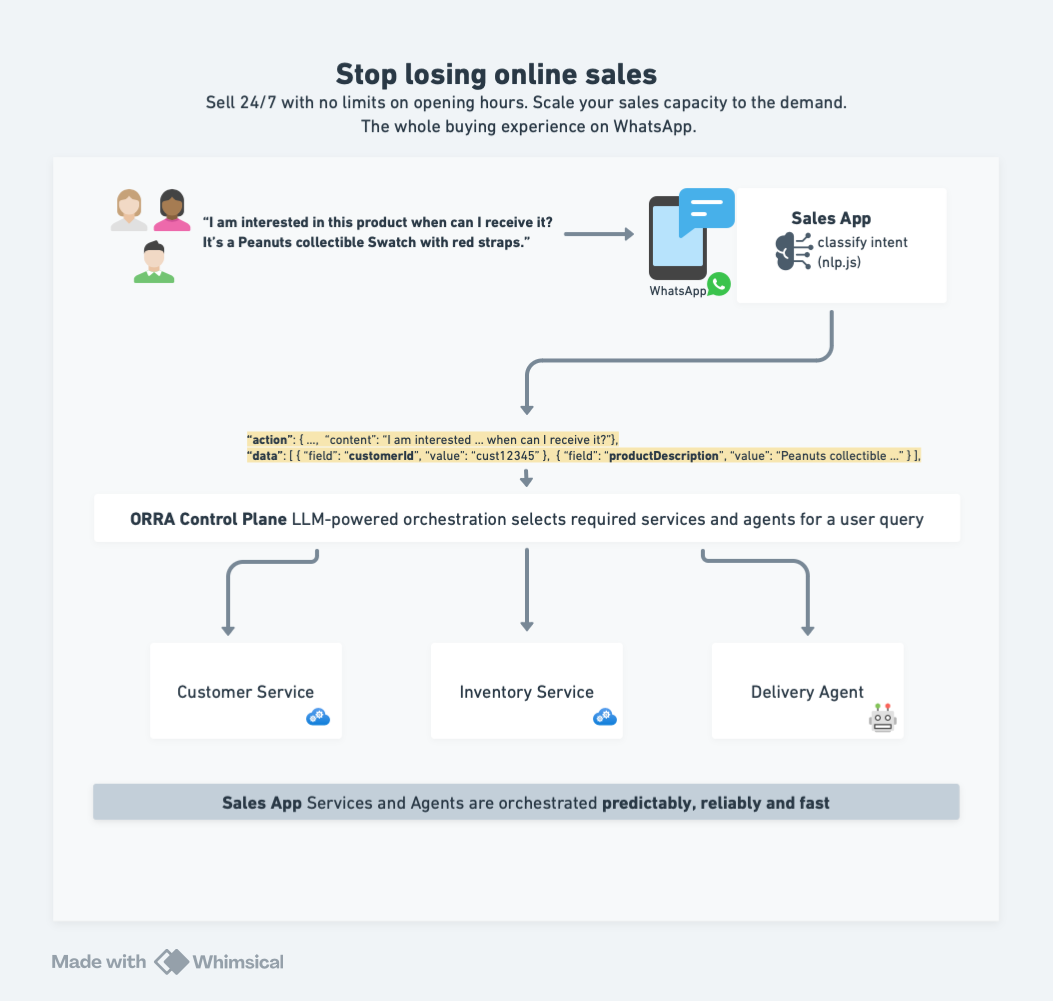
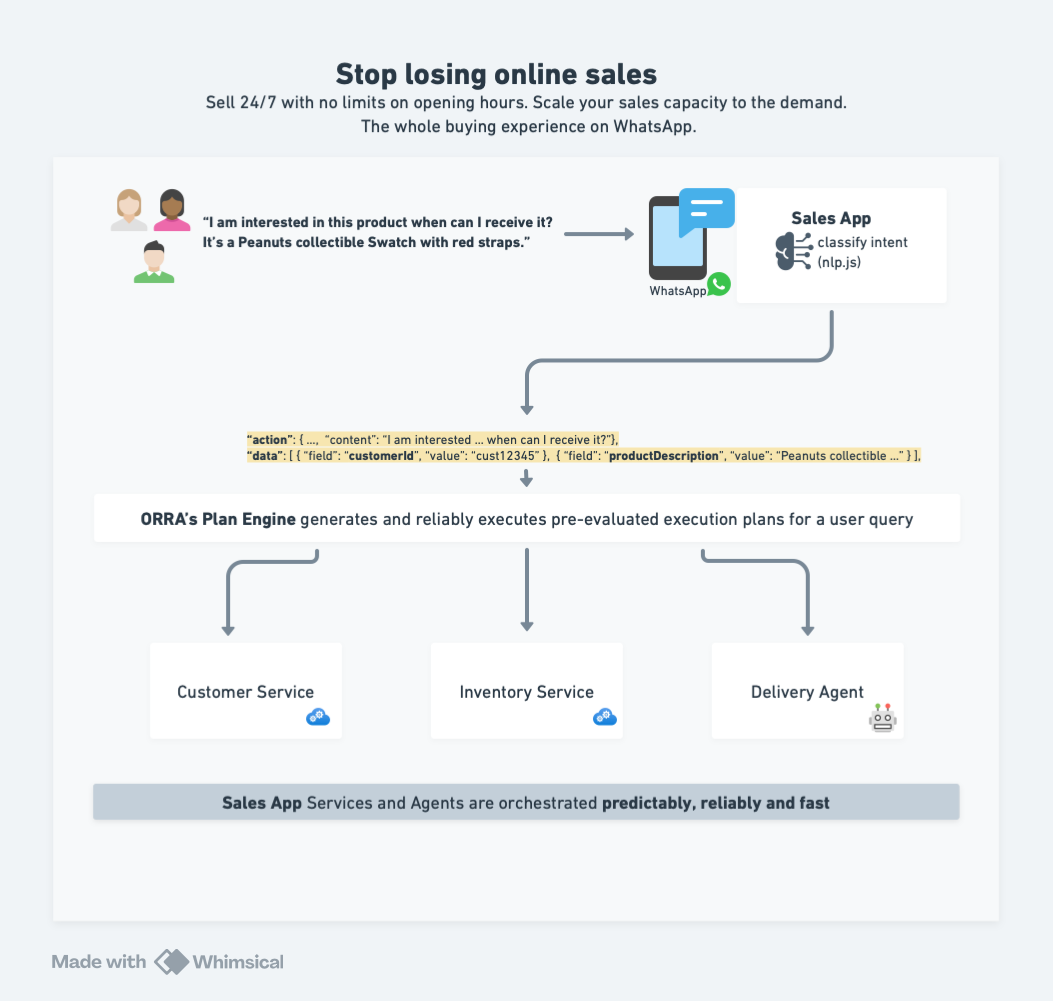
Ecommerce example and CLI binary link updates. (#186)
* Renamed inventory svc to inventory mgr.
* Updated ecommerce example README towards Plan Engine.
* Updated CLI binaries to next 0.2.2 release.

Changed region(s): [[0.1216, 0.4955, 0.8813, 0.5265]]

diff --git a/examples/ecommerce-agent-app/README.md b/examples/ecommerce-agent-app/README.md
@@ -1,6 +1,6 @@
 # AI E-commerce Assistant Example
 
-This example demonstrates how to build an AI-powered e-commerce assistant using Orra for reliable multi-agent orchestration.
+This example demonstrates how to build an LLM powered e-commerce assistant using Orra for reliable multi-agent orchestration.
 
 It uses a chat UI to simulate a WhatsApp sales experience.
 
@@ -12,7 +12,7 @@ It uses a chat UI to simulate a WhatsApp sales experience.
 - 🏪 Real-time product availability checks and holds
 - 👤 Customer profile integration
 - 📱 Real-time chat UI (simulating WhatsApp)
-- ⚡  Parallel service orchestration
+- ⚡  Parallel agent, tool as service and service task coordination
 - 🔄 Real-time status updates
 - 🛡 Error handling and recovery
 - ↩ Canceling product holds when an unrecoverable error occurs
@@ -21,29 +21,16 @@ It uses a chat UI to simulate a WhatsApp sales experience.
 
 - [Docker](https://docs.docker.com/get-docker/) and [Docker Compose](https://docs.docker.com/compose/install/)
 - [Mistral API key](https://mistral.ai/api/) for the Delivery Agent
-- [OpenAI API key](https://platform.openai.com/api-keys) for Orra's control plane
+- [OpenAI API key](https://platform.openai.com/api-keys) for Orra's Plan Engine `PLAN_CACHE_OPENAI_API_KEY`
+- [OpenAI API key](https://platform.openai.com/api-keys) or [Groq API key](https://console.groq.com/docs/quickstart) for Orra's Plan Engine reasoning models config
+
 
 ## Setup
 
 1. First, setup Orra by following the [Installation instructions](../../README.md#installation):
-```bash
-# Clone Orra
-git clone https://github.com/ezodude/orra
-cd orra/controlplane
-
-# Set your OpenAI API key
-echo "OPENAI_API_KEY=your-key-here" > .env
-
-# Start the control plane
-docker compose up
-```
 
 2. Setup your Orra project:
 ```bash
-# Install Orra CLI 
-curl -L https://github.com/ezodude/orra/releases/download/v0.2.1/orra-darwin-arm64 -o /usr/local/bin/orra
-chmod +x /usr/local/bin/orra
-
 # Create project and configure a webhook
 orra projects add my-ai-app
 orra webhooks add http://host.docker.internal:3000/api/webhook
@@ -60,7 +47,7 @@ cd ../customer-svc
 # Create .env file with your keys for
 echo "ORRA_API_KEY=key-from-step-2" > .env
 
-cd ../inventory-svc
+cd ../inventory-mgr
 # Create .env file with your keys for
 echo "ORRA_API_KEY=key-from-step-2" > .env
 
@@ -83,7 +70,7 @@ cd customer-svc
 docker compose up
 
 # Start Inventory Service
-cd inventory-svc
+cd inventory-mgr
 docker compose up
 
 # Start Delivery Agent
@@ -174,7 +161,7 @@ The example consists of:
 - **Customer Service**: Handles customer data
 - **Inventory Service**: Manages product availability
 - **Delivery Agent**: Uses Mistral AI for delivery estimations
-- **Orra Control Plane**: Orchestrates everything reliably
+- **Orra's Plane Engine**: Intelligently coordinates everything reliably
 
 ## Learn More
 

diff --git a/README.md b/README.md
@@ -82,11 +82,11 @@ Download the latest CLI binary for your platform from our [releases page](https:
 
 ```shell
 # macOS
-curl -L https://github.com/orra-dev/orra/releases/download/v0.2.1/orra-darwin-arm64 -o /usr/local/bin/orra
+curl -L https://github.com/orra-dev/orra/releases/download/v0.2.2/orra-darwin-arm64 -o /usr/local/bin/orra
 chmod +x /usr/local/bin/orra
 
 # Linux
-curl -L https://github.com/ezodude/orra/releases/download/v0.2.1/orra-linux-amd64 -o /usr/local/bin/orra
+curl -L https://github.com/ezodude/orra/releases/download/v0.2.2/orra-linux-amd64 -o /usr/local/bin/orra
 chmod +x /usr/local/bin/orra
 
 # Verify installation
